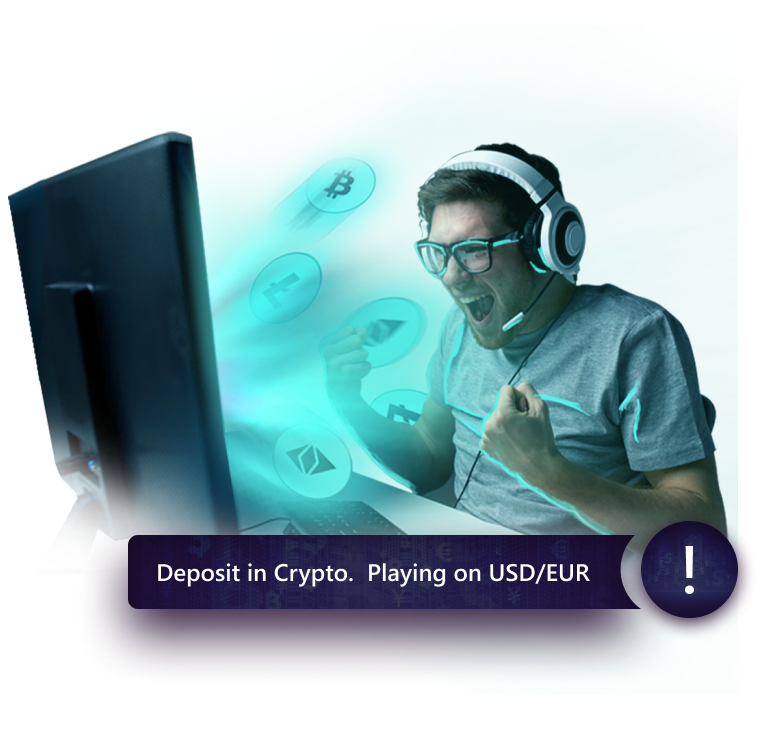
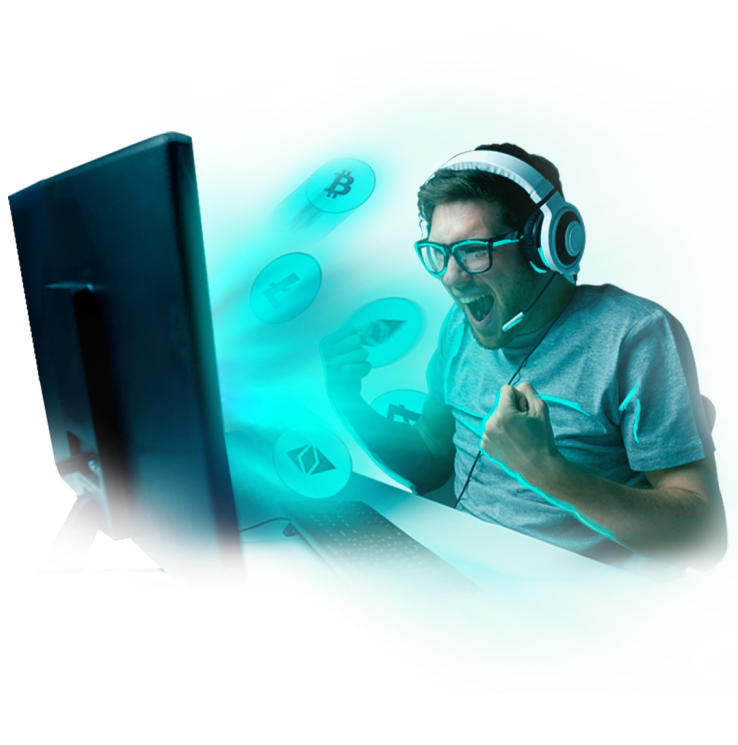
Add files via upload

diff --git a/style.css b/style.css
@@ -103,7 +103,14 @@ body {
   z-index: 6;
   right: -50px;
   top: 0;
+}
+
+.wrapper__alert {
+  position: absolute;
+  z-index: 6;
   animation: 1.5s anima1 0s ease-in-out alternate infinite;
+  bottom: 10px;
+  right: -50px;
 }
 
 @keyframes anima1 {
@@ -216,6 +223,10 @@ body {
     right: -20px;
   }
 
+  .wrapper__alert {
+    right: 10px;
+  }
+
   .wrapper__footer {
     box-shadow: 0 0 100px 150px #210026;
   }
@@ -225,6 +236,13 @@ body {
   .wrapper__img {
     top: 100px;
     max-width: 530px;
+    right: 22px;
+  }
+
+  .wrapper__alert {
+    max-width: 578px;
+    right: 10px;
+    bottom: 54px;
   }
 
   .wrapper__footer {
@@ -236,6 +254,13 @@ body {
   .wrapper__img {
     top: 100px;
     max-width: 450px;
+    right: -5px;
+  }
+
+  .wrapper__alert {
+    max-width: 474px;
+    right: -15px;
+    bottom: 110px;
   }
 
   .wrapper__footer {
@@ -256,6 +281,14 @@ body {
 }
 
 @media (max-width: 768px) {
+
+  .wrapper__costil {
+    display: none;
+  }
+
+  .wrapper__adaptive {
+    position: relative;
+  }
 
   .wrapper__main {
     display: flex;
@@ -284,6 +317,12 @@ body {
     max-width: 300px;
     left: 0;
     top: 0;
+  }
+
+  .wrapper__alert {
+    max-width: 303px;
+    right: -3px;
+    bottom: 23px;
   }
 
   @keyframes anima1 {

diff --git a/index.html b/index.html
@@ -32,7 +32,14 @@
                     <li class="wrapper__item wrapper__item--doge"></li>
                 </ul>
             </div>
-            <img class="wrapper__img" src="./assets/main.png" alt="Vera Casino">
+            <div class="wrapper__costil">
+                <img class="wrapper__img" src="./assets/main.png" alt="Vera Casino">
+                <img class="wrapper__alert" src="./assets/alert.png" alt="Vera Casino">
+            </div>
+            <div class="wrapper__adaptive">
+                <img class="wrapper__img" src="./assets/main.png" alt="Vera Casino">
+                <img class="wrapper__alert" src="./assets/alert.png" alt="Vera Casino">
+            </div>
         </div>
     </div>
     <footer class="wrapper__footer">
